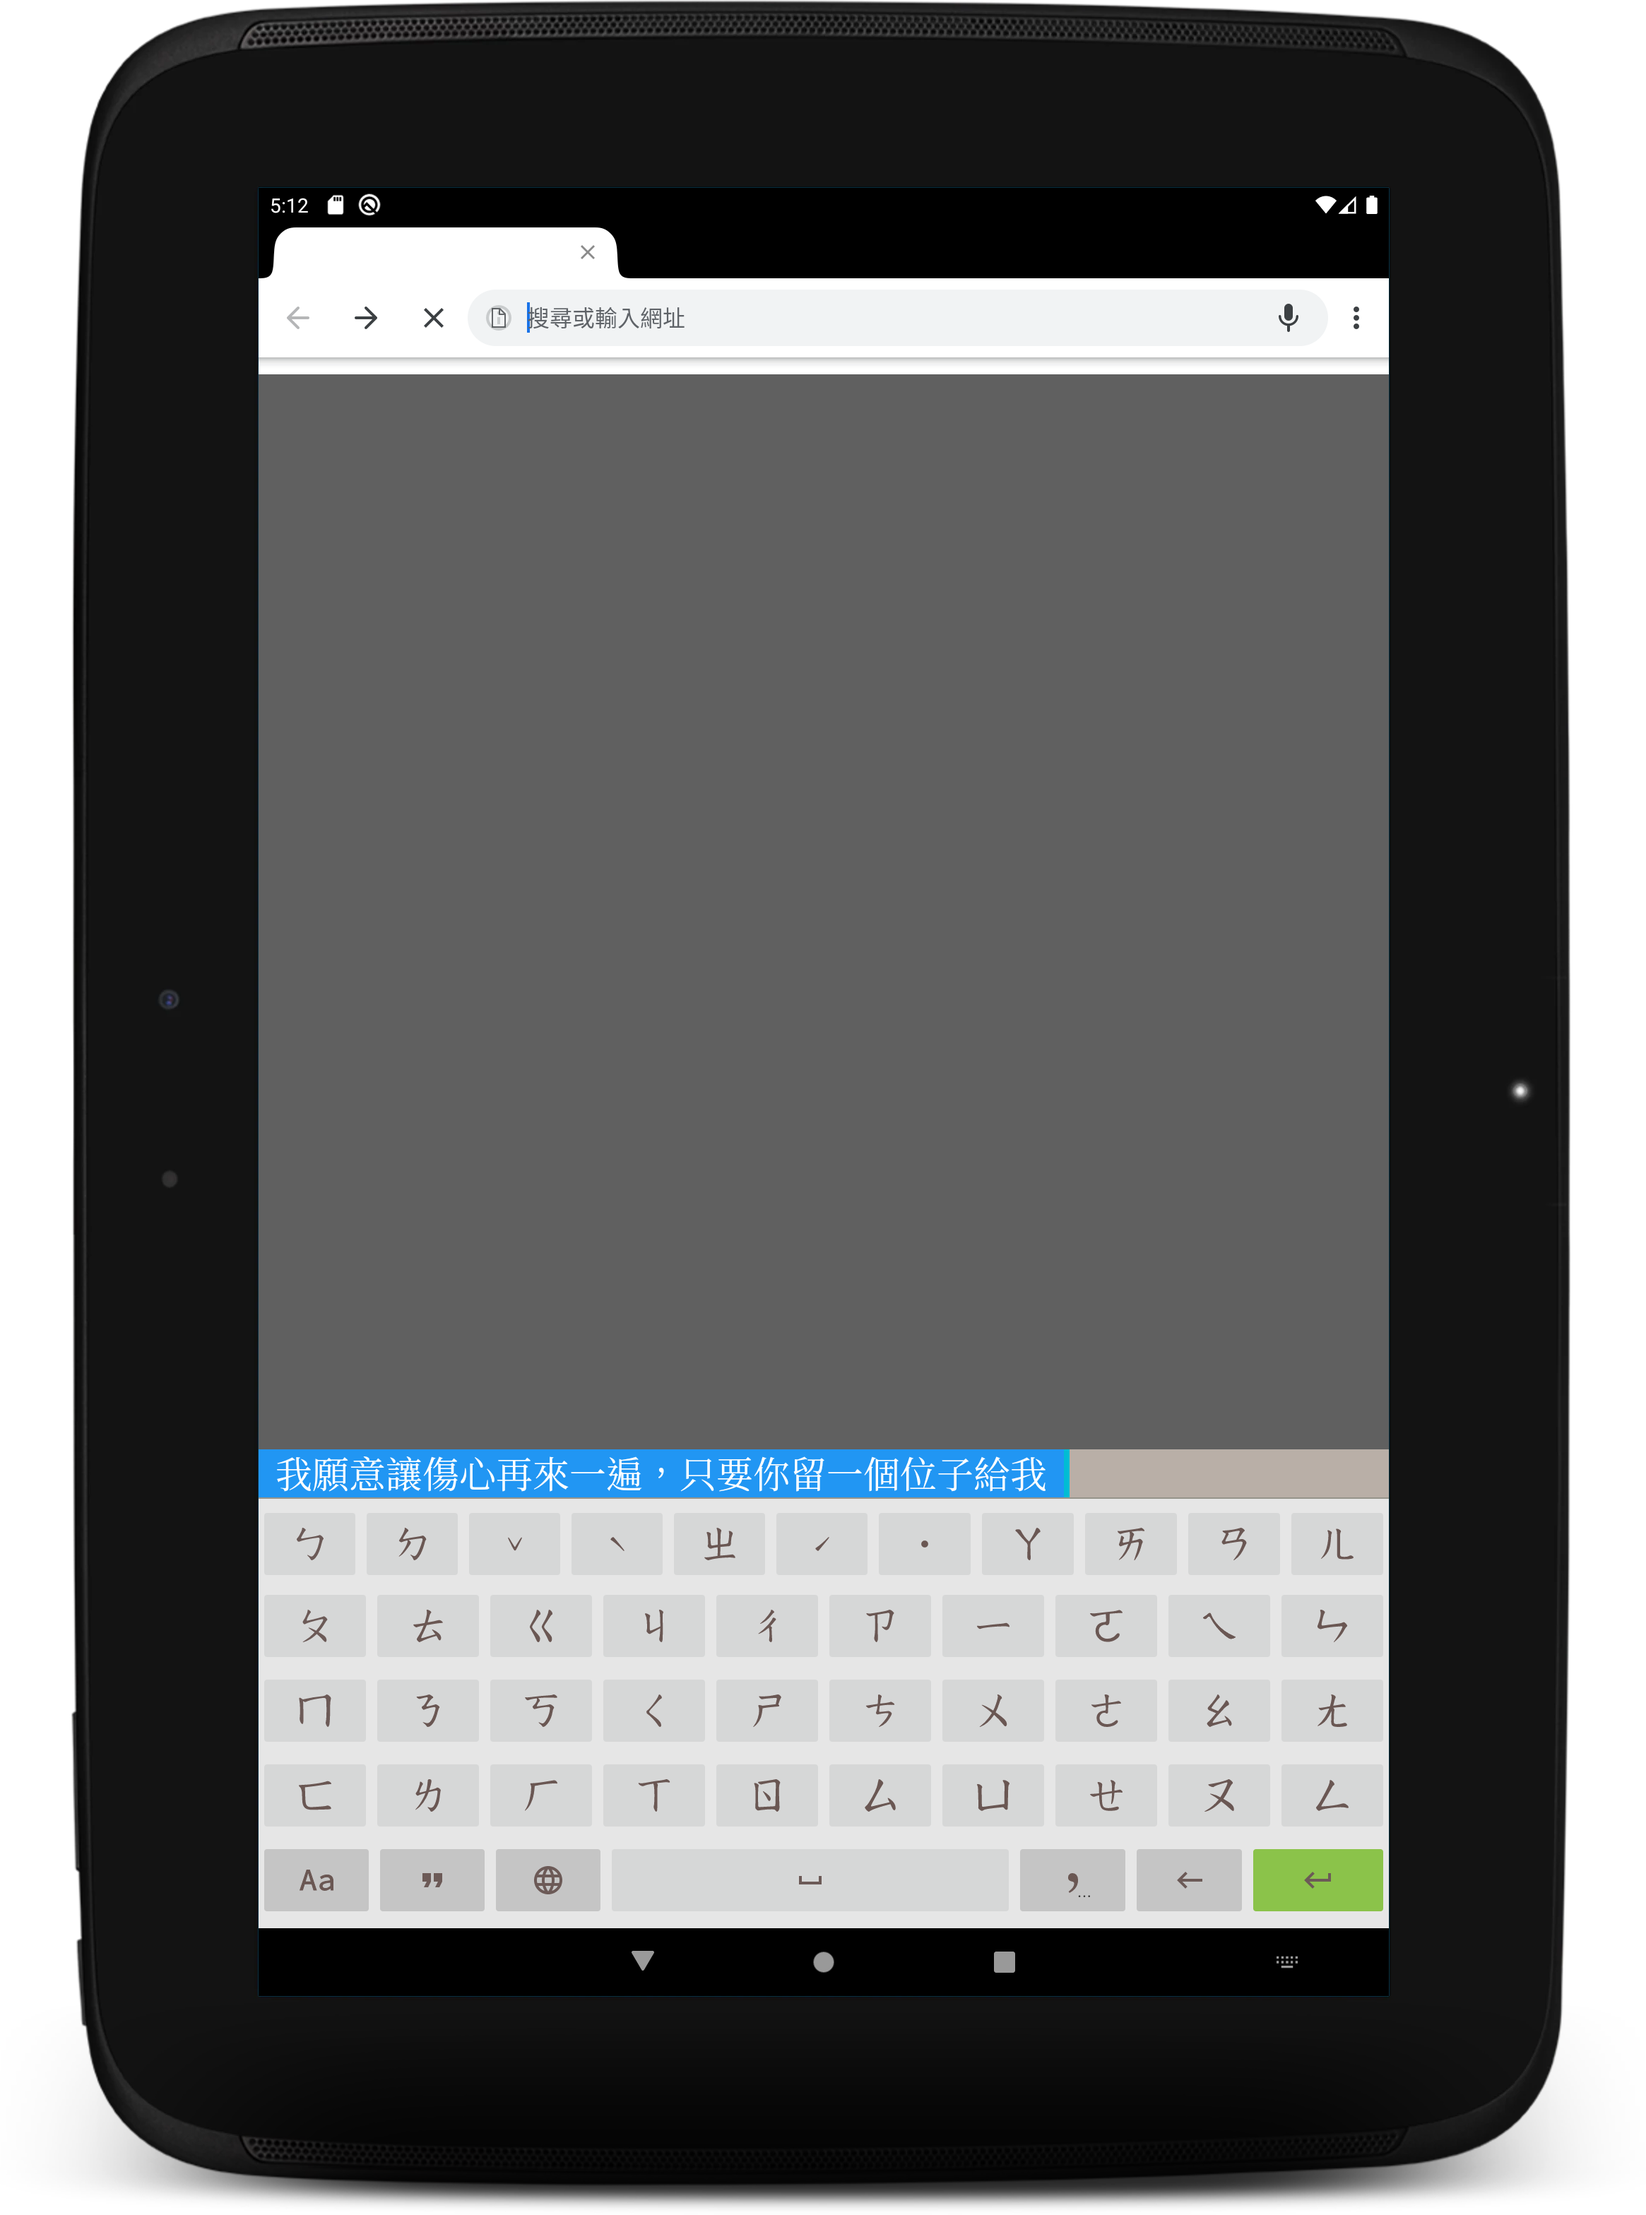
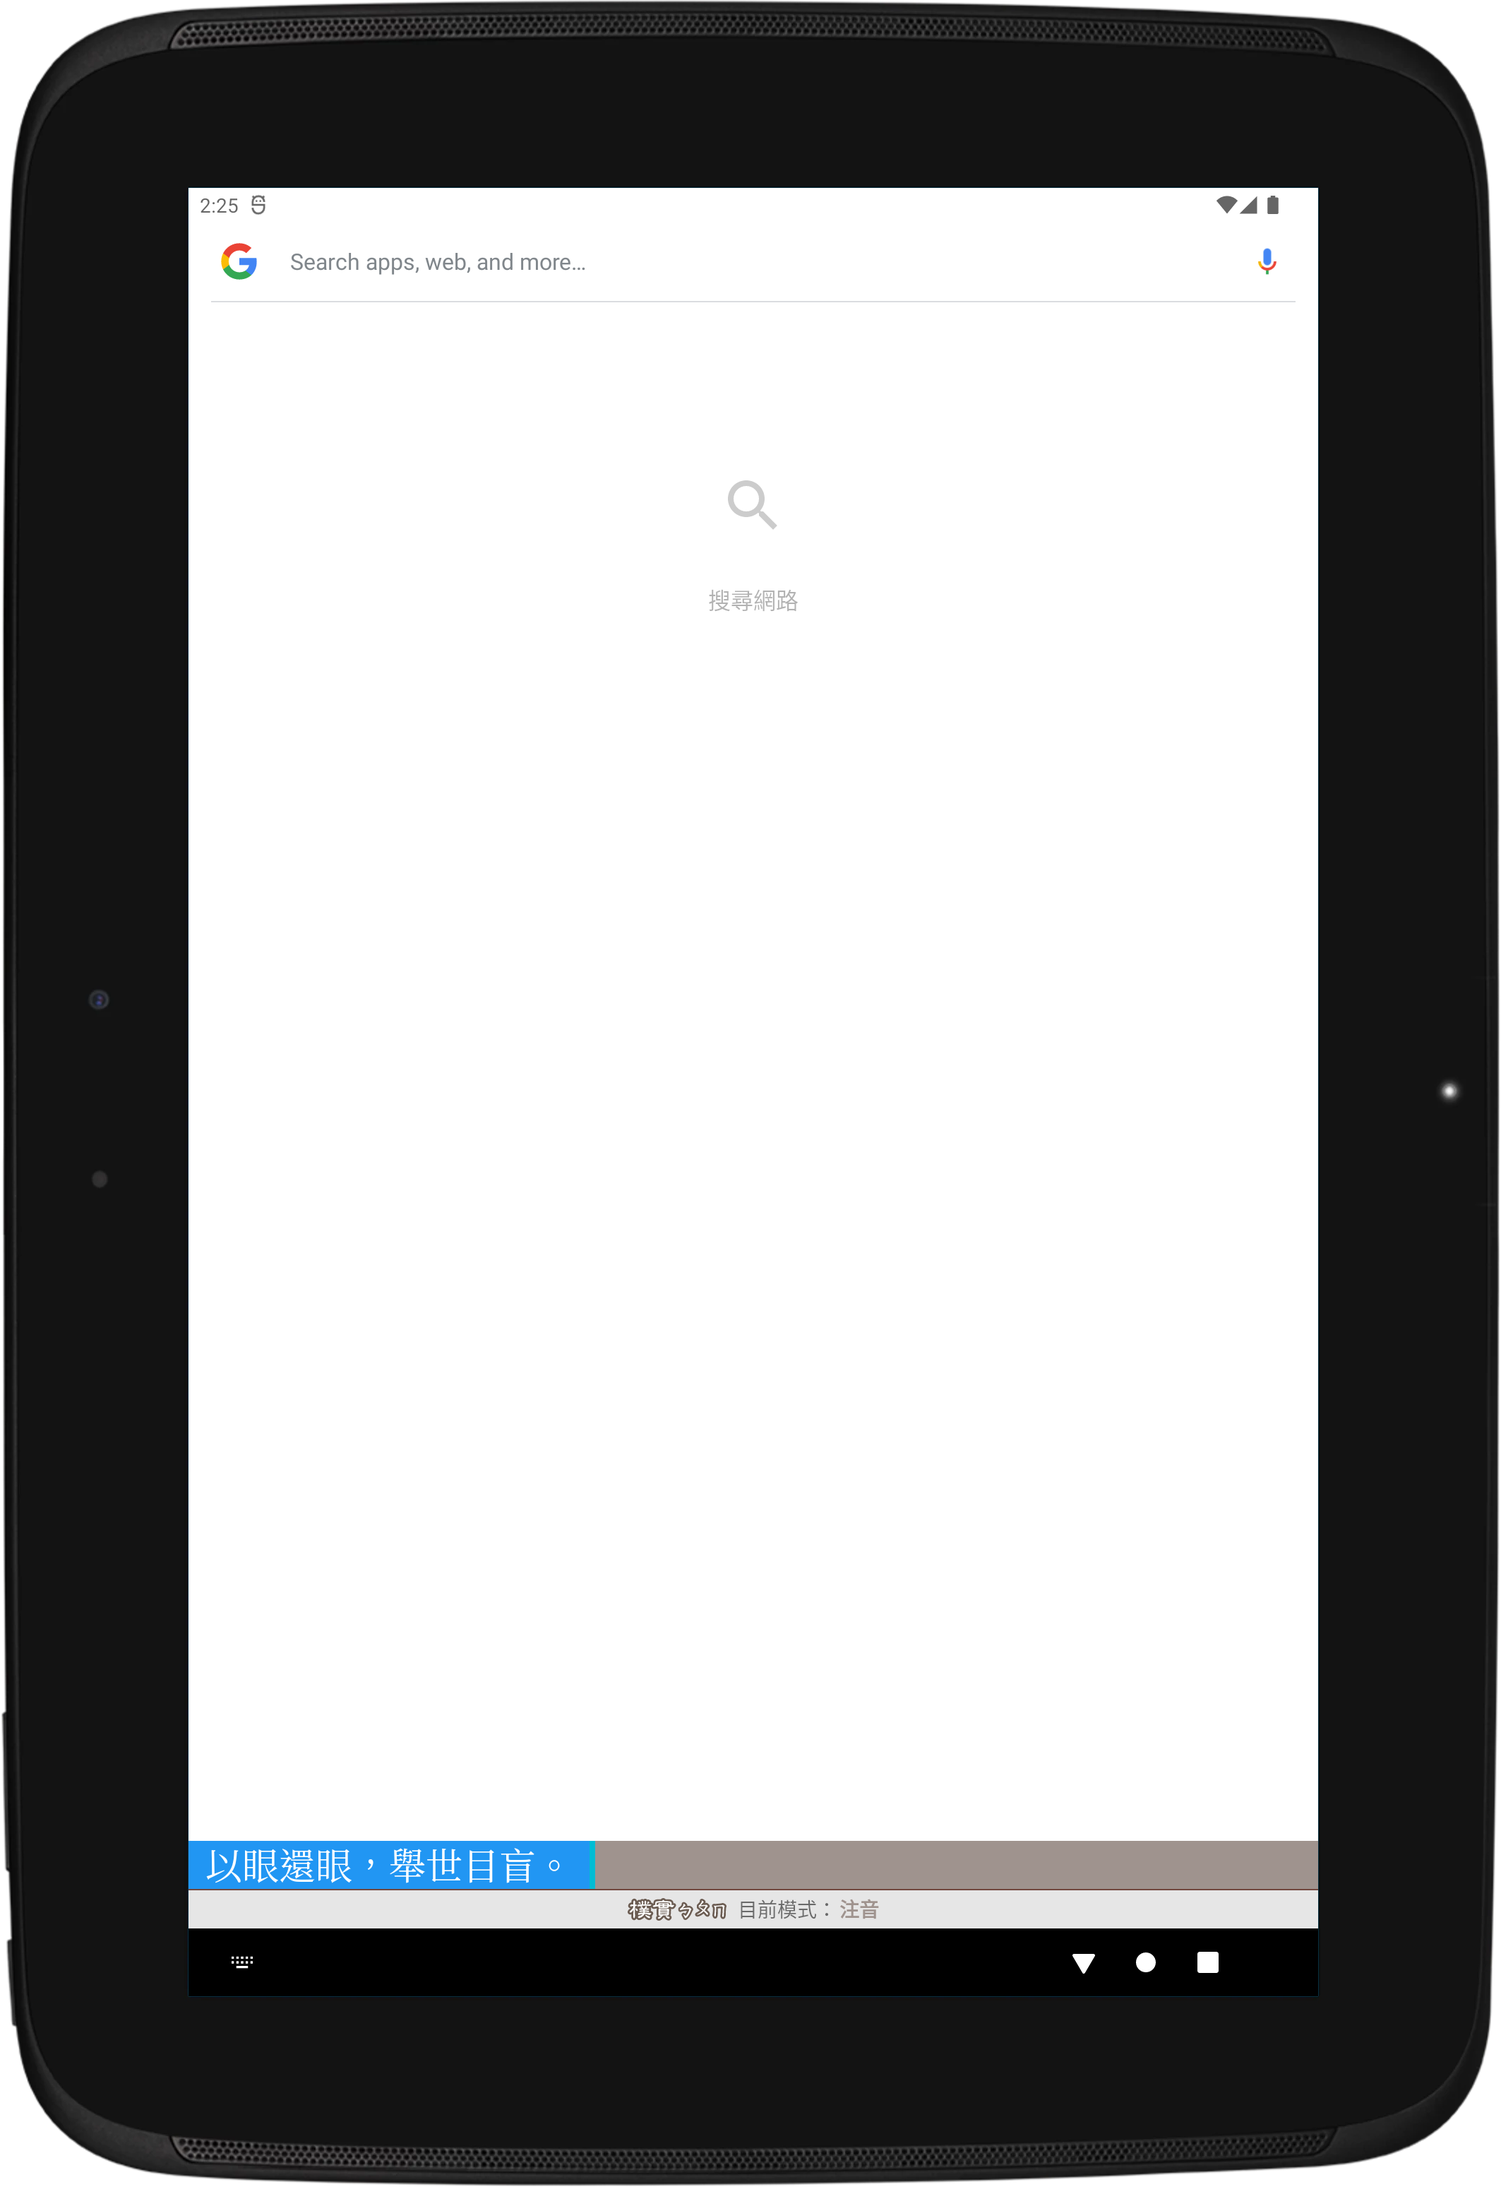
Update screenshots

diff --git a/README.md b/README.md
@@ -1,7 +1,7 @@
 # Guileless Bopomofo 樸實注音鍵盤
 
-![Screenshot of Guileless Bopomofo](./media/device-2020-12-27-132602.png)
-![Screenshot of Guileless Bopomofo](./media/device-2020-12-27-133440.png)
+![Screenshot of Guileless Bopomofo](./media/Screenshot_20230727_140124.png)
+![Screenshot of Guileless Bopomofo](./media/Screenshot_20230727_140620.png)
 
 ## About 這是啥
 
